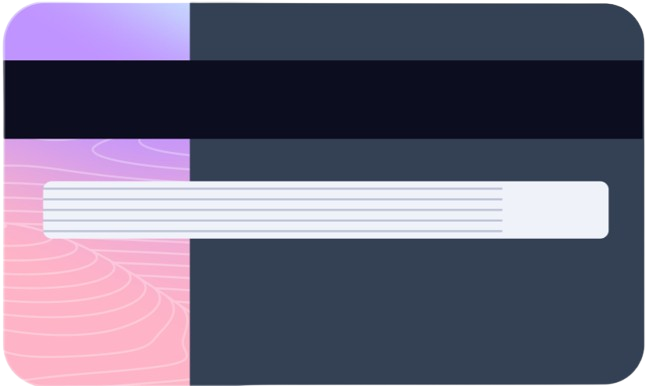
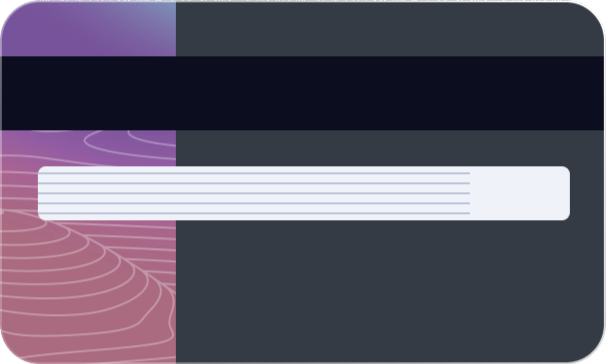
[style] #108 update style of cards

diff --git a/components/CreditCardModel.tsx b/components/CreditCardModel.tsx
@@ -25,18 +25,18 @@ const CreditCardModel = (
                     {/* Card Type */}
                     <div className='relative top-4 left-4 text-white-200 font-semibold text-lg'>{type}</div>
                 
-                    {/* Cardholder Name */}
-                    <div className="relative -bottom-24 left-4 text-white-200 text-sm font-manrope tracking-widest">
-                        {name.toUpperCase()}
-                    </div>
-
                     {/* Card Number */}
-                    <div className="relative -bottom-24 -right-4 text-white-200 text-lg tracking-widest font-manrope">
+                    <div className="relative -bottom-20 -right-4 text-white-200 text-base tracking-widest font-manrope">
                         {formatCardNumber(cardNumber.toString())}    
                     </div>
 
+                    {/* Cardholder Name */}
+                    <div className="relative -bottom-24 left-4 text-white-200 text-sm font-manrope tracking-widest">
+                        {name}
+                    </div>
+
                     {/* Expiration Date */}
-                    <div className="relative -bottom-12 -right-44 text-white-200 text-xs font-manrope">
+                    <div className="relative -bottom-20 -right-44 text-white-200 text-xs font-manrope">
                         {formattedExpirationDate}
                     </div>
 

diff --git a/components/DebitCard.tsx b/components/DebitCard.tsx
@@ -24,19 +24,19 @@ const DebitCard = (
                     
                     {/* Card Type */}
                     <div className='relative top-4 left-4 text-white-200 font-semibold text-lg'>{type}</div>
+
+                    {/* Card Number */}
+                    <div className="relative -bottom-20 -right-4 text-white-200 text-base tracking-widest font-manrope">
+                        {formatCardNumber(cardNumber.toString())}    
+                    </div>
                 
                     {/* Cardholder Name */}
                     <div className="relative -bottom-24 left-4 text-white-200 text-sm font-manrope tracking-widest">
-                        {name.toUpperCase()}
-                    </div>
-
-                    {/* Card Number */}
-                    <div className="relative -bottom-24 -right-4 text-white-200 text-lg tracking-widest font-manrope">
-                        {formatCardNumber(cardNumber.toString())}    
+                        {name}
                     </div>
 
                     {/* Expiration Date */}
-                    <div className="relative -bottom-12 -right-44 text-white-200 text-xs font-manrope">
+                    <div className="relative -bottom-20 -right-44 text-white-200 text-xs font-manrope">
                         {formattedExpirationDate}
                     </div>
 
